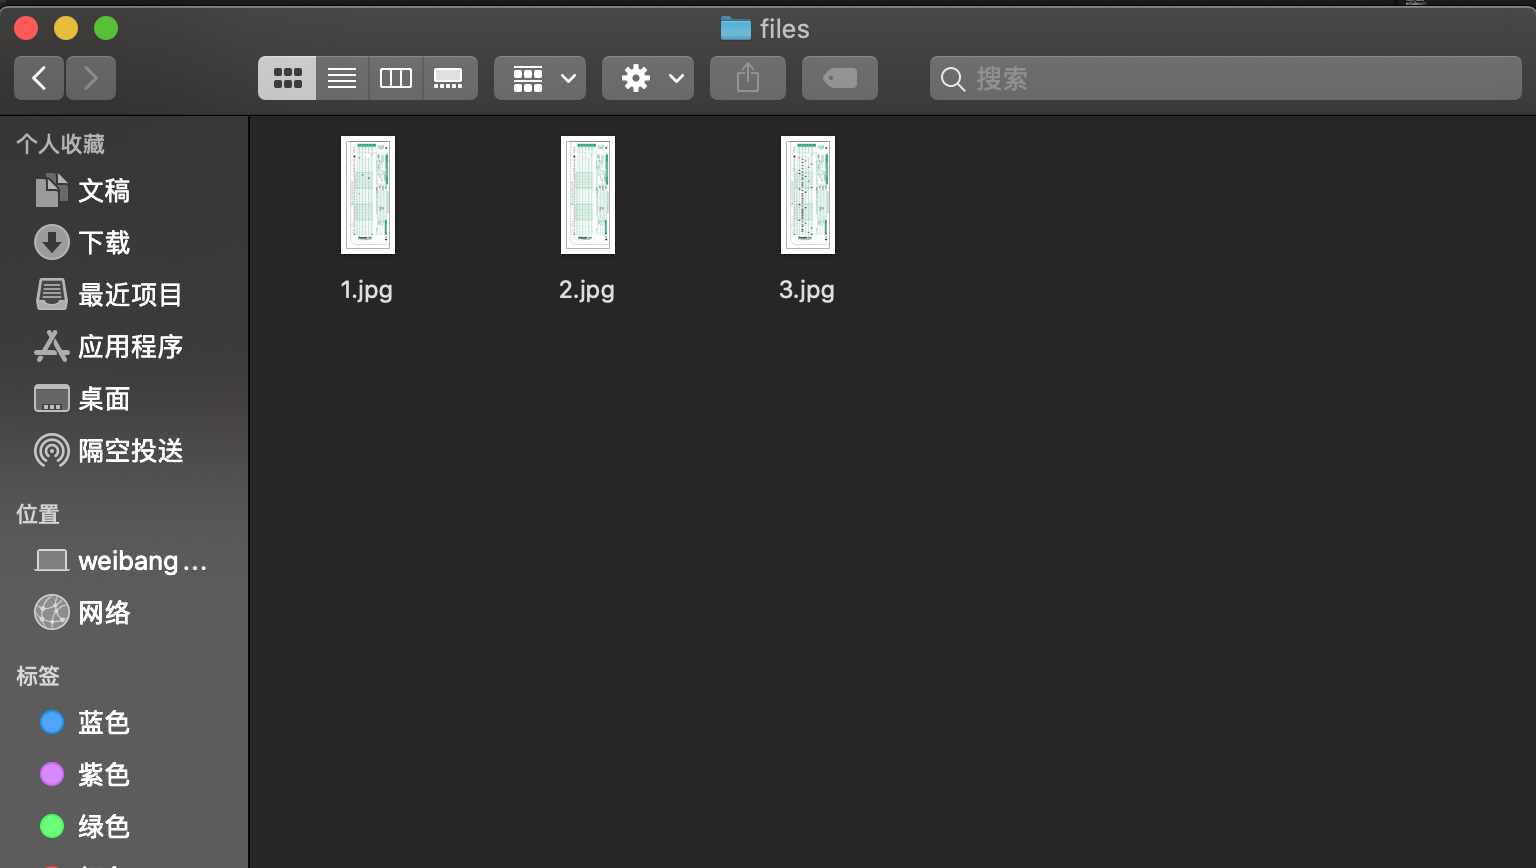
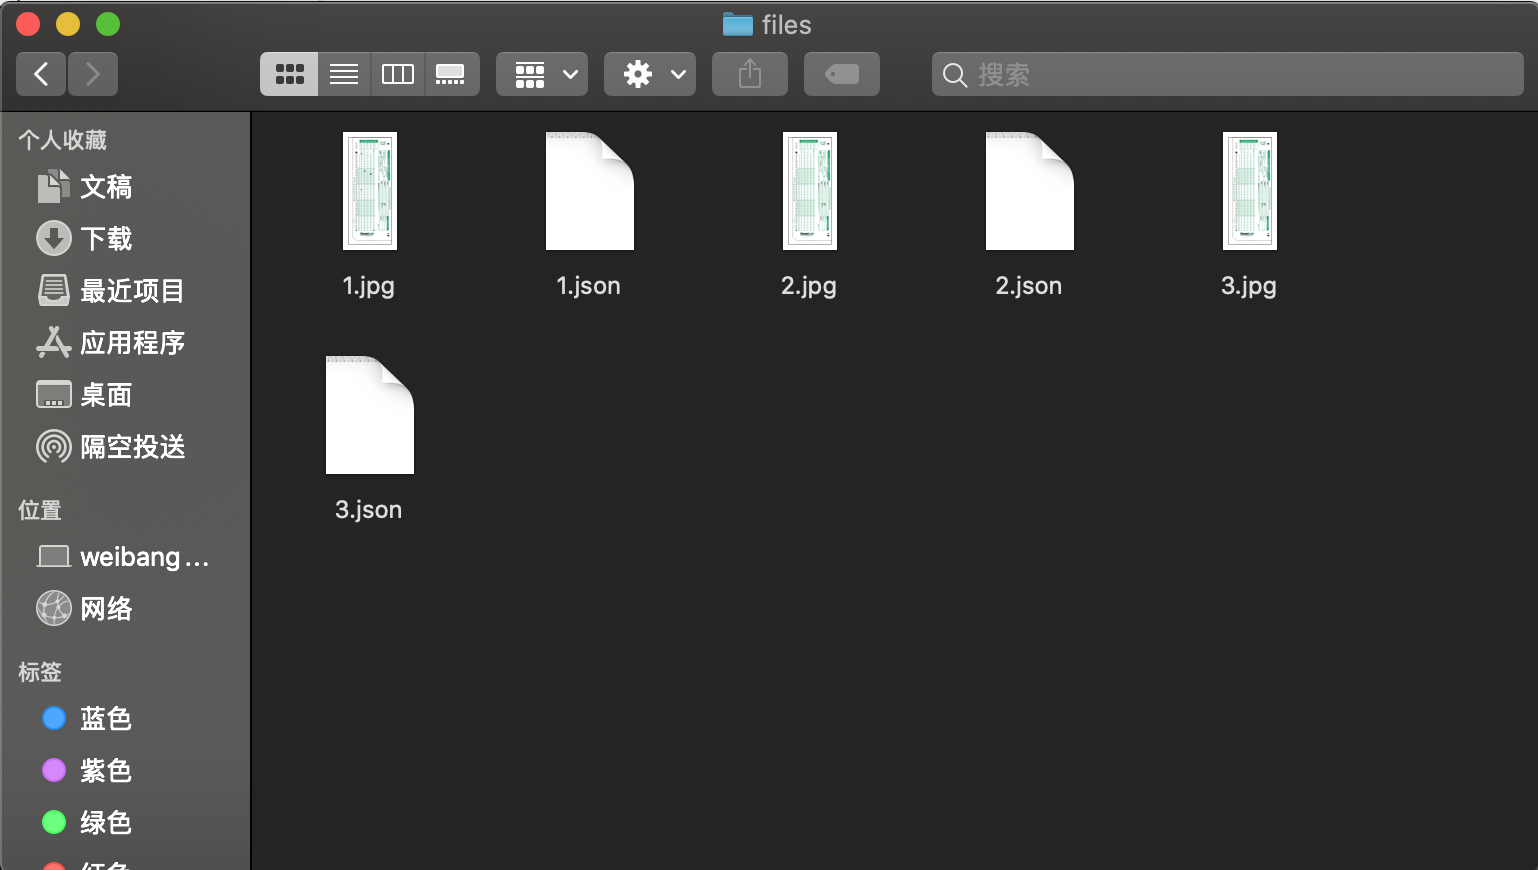
..

diff --git a/app.py b/app.py
@@ -39,7 +39,8 @@ def getPDF(get_id):
     if request.files.get(""):
         image = request.files[""]
         strid= str(get_id)
-        url= "http://localhost:5000/files/"+strid+".jpg"
+        PhotoUrl= "http://localhost:5000/files/"+strid+".jpg"
+        JsonUrl= "http://localhost:5000/files/"+strid+".json"
         addr="./files/"+strid+".jpg"
         image.save(addr)
         readfile(addr)
@@ -69,22 +70,28 @@ def getPDF(get_id):
                 myIndex[x]="E"
                 continue
             
-
         score =0
         subject ="Math"
         result=[]
+        jsonfile_answer=[]
         for i in range (len(myIndex)):
             result.append( {str(i+1) :{"actual":DB["test"][0]["answer_keys"][str(i+1)], "expected" : myIndex[i]} })
+            jsonfile_answer.append( {str(i+1) : myIndex[i]})
             if(DB["test"][0]["answer_keys"][str(i+1)]==myIndex[i]):
                 score+=1
-    DB["scantron"].append({"scantron_id":get_id,"scantron_url":url,"name":"Foo Bar","subject":subject,"Score":score,"result":result})
+        
+        ScantronDB = {"subject" :"Math", "name": "Foo Bar", "result": jsonfile_answer}
+        DB["scantron"].append({"scantron_id":get_id,"JsonUrl":JsonUrl,"PhotoUrl":PhotoUrl,"name":"Foo Bar","subject":subject,"Score":score,"result":result})
+        with open('./files/'+str(get_id)+'.json', 'w') as json_file_s:
+            json.dump(ScantronDB, json_file_s)
 
-    for i in range(len(DB["test"])):
-        if(DB["test"][i]["subject"]==subject):
-            DB["test"][i]["submissions"].append({"scantron_id":get_id,"scantron_url":url,"name":"Foo Bar","subject":subject,"Score":score,"result":result})
-    saveFile()
+        for i in range(len(DB["test"])):
+            if(DB["test"][i]["subject"]==subject):
+                DB["test"][i]["submissions"].append({"scantron_id":get_id,"JsonUrl":JsonUrl,"PhotoUrl":PhotoUrl,"name":"Foo Bar","subject":subject,"Score":score,"result":result})
+        saveFile()
     
-    return (jsonify(scantron_id=get_id,scantron_url=url,name="Foo Bar",subject= subject, Score=score , result=result)),201
+        return (jsonify(scantron_id=get_id,JsonUrl=JsonUrl,PhotoUrl=PhotoUrl,name="Foo Bar",subject= subject, Score=score , result=result)),201
+    return "Your should leave the key as empty"
 
 
 @app.route('/api/tests/<int:get_id>',methods=['GET'])
@@ -97,20 +104,27 @@ def get_test(get_id):
     return 'No This test ID, sorry!'
 
 
+@app.route('/files/<int:get_id>.jpg',methods=['GET'])
+def photourl(get_id):
+    if(os.path.exists('./files/'+str(get_id)+'.jpg')):
+        addr="./files/"+str(get_id)+".jpg"
+        return send_file(
+                addr,
+                mimetype='image/jpge',
+                attachment_filename='snapshot.png',
+                cache_timeout=0
+            )
+    return "no this json"
 
 
 
-
-@app.route('/')
-def fileurl():
-    get_id = 1
-    addr="./files/"+str(get_id)+".jpg"
-    return send_file(
-            addr,
-            mimetype='image/jpge',
-            attachment_filename='snapshot.png',
-            cache_timeout=0
-        )
+@app.route('/files/<int:get_id>.json',methods=['GET'])
+def fileurl(get_id):
+    if(os.path.exists('./files/'+str(get_id)+'.json')):
+        with open('./files/'+str(get_id)+'.json') as f1:
+            DBtest = json.load(f1)
+            return DBtest
+    return "no this json"
 
 
 def saveFile():
